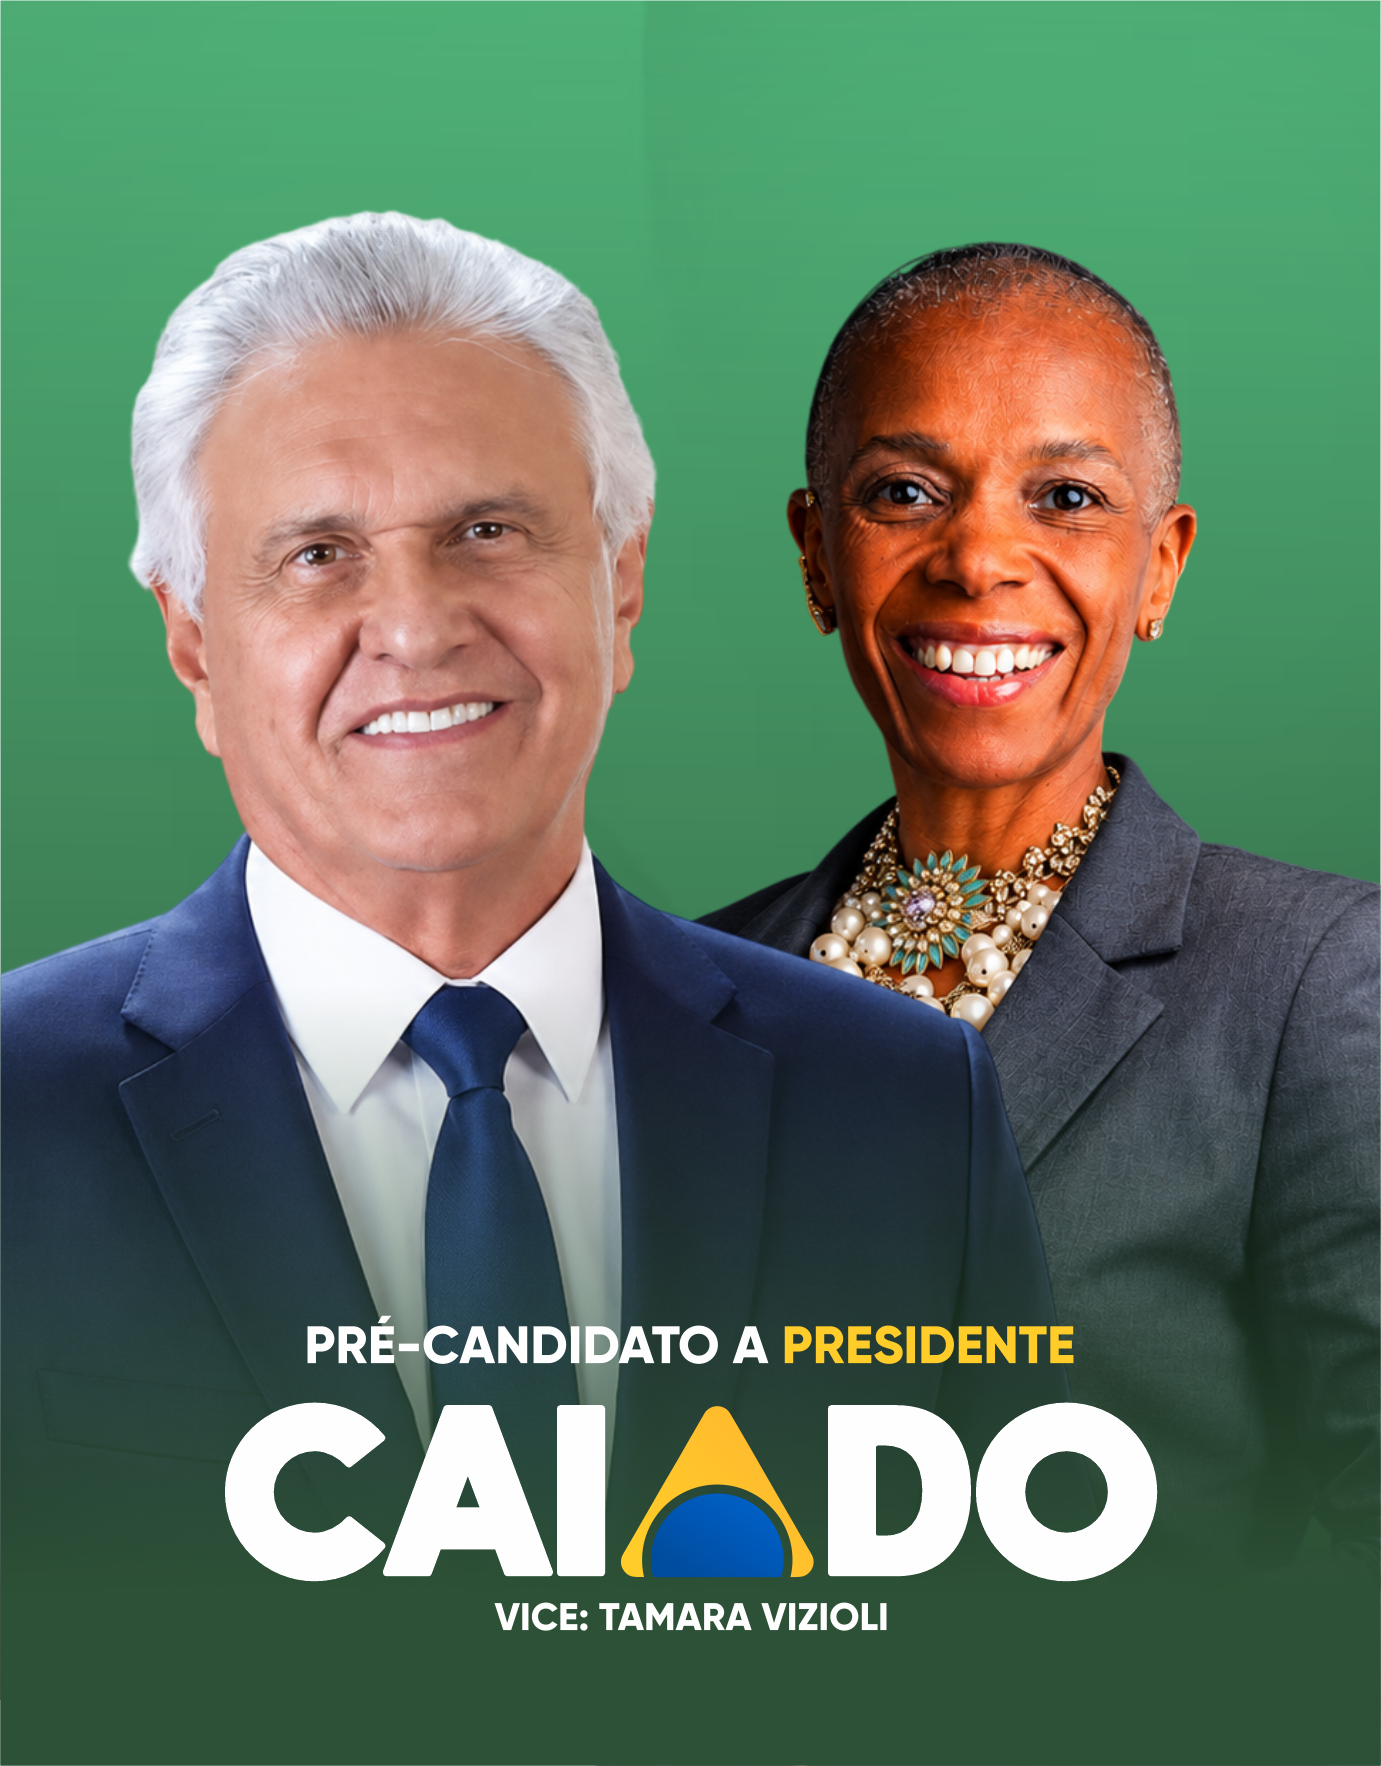
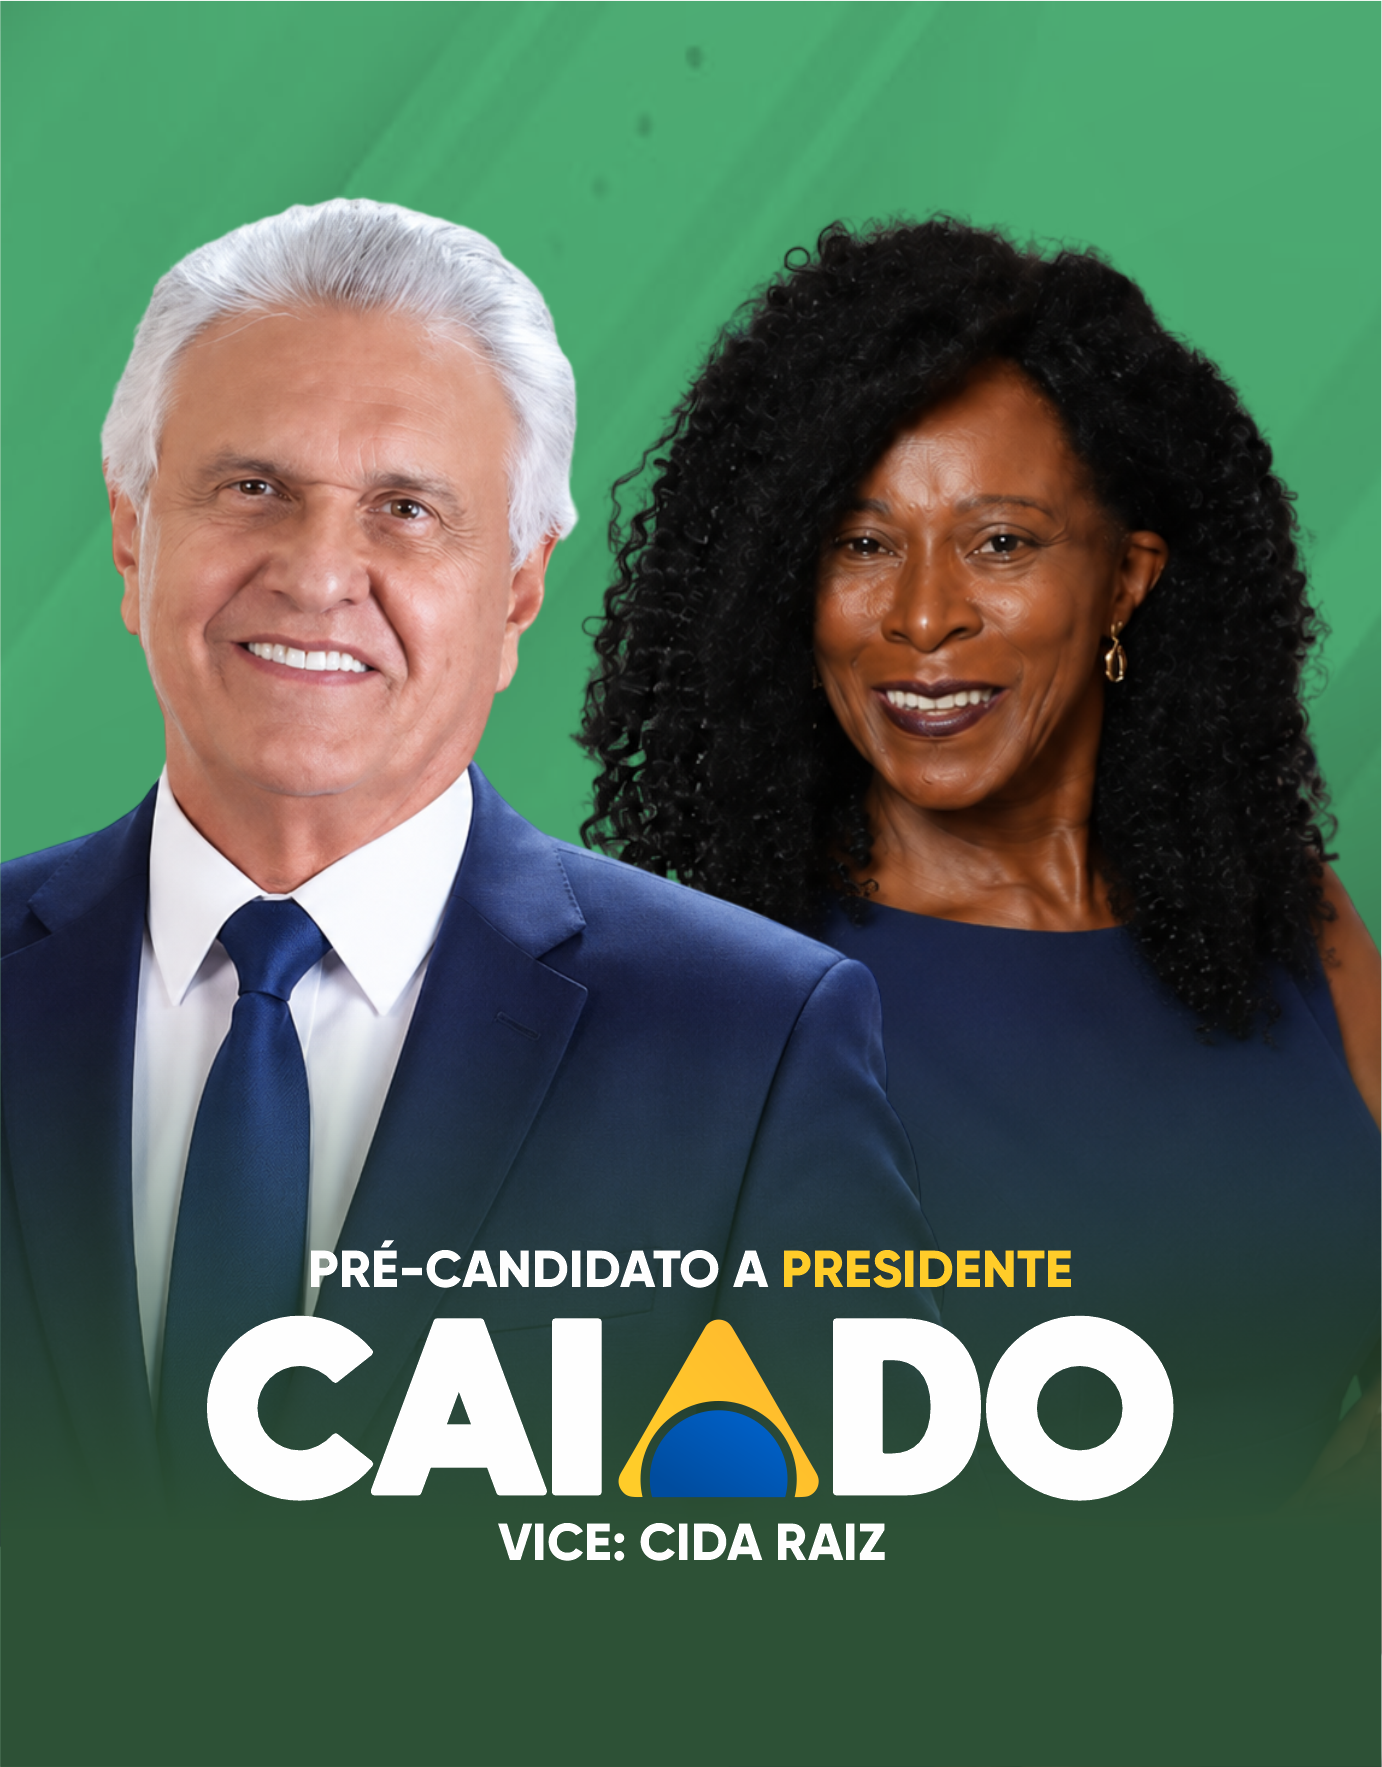
Add files via upload

diff --git a/index.html b/index.html
@@ -3,8 +3,8 @@
 <head>
   <meta charset="UTF-8">
   <meta name="viewport" content="width=device-width, initial-scale=1.0">
-  <meta name="description" content="Caiado 2026 - PSD Afro GO indica Tamara Vizioli para vice em uma chapa de gest&atilde;o, seguran&ccedil;a e transforma&ccedil;&atilde;o humana.">
-  <title>Caiado 2026 | PSD Afro GO indica Tamara Vizioli</title>
+  <meta name="description" content="Caiado 2026 - PSD Afro GO indica Cida Raiz para vice em uma chapa de gest&atilde;o, paz social e transforma&ccedil;&atilde;o humana.">
+  <title>Caiado 2026 | PSD Afro GO indica Cida Raiz</title>
   <link rel="preconnect" href="https://fonts.googleapis.com">
   <link rel="preconnect" href="https://fonts.gstatic.com" crossorigin>
   <link href="https://fonts.googleapis.com/css2?family=Inter:wght@400;500;600;700;800;900&family=Playfair+Display:wght@700;800&display=swap" rel="stylesheet">
@@ -23,7 +23,7 @@
     </button>
     <div class="nav-links">
       <a href="#movimento">Movimento</a>
-      <a href="#tamara">Tamara</a>
+      <a href="#cida">Cida Raiz</a>
       <a href="#agenda">Agenda</a>
       <a href="#planos">Planos</a>
       <a href="#terras-raras">Terras raras</a>
@@ -52,13 +52,13 @@
       <div class="section-kicker">Movimento</div>
       <div class="section-grid">
         <div>
-          <h2>PSD Afro GO indica Tamara Vizioli para vice de Ronaldo Caiado.</h2>
+          <h2>PSD Afro GO indica Cida Raiz para vice de Ronaldo Caiado.</h2>
         </div>
         <div class="rich-copy">
           <div class="manifest-video">
             <video src="01.mp4" controls playsinline preload="metadata"></video>
           </div>
-          <p>O PSD Afro GO defende uma chapa com presen&ccedil;a, escuta e capacidade de execu&ccedil;&atilde;o. A indica&ccedil;&atilde;o de Tamara Vizioli amplia o di&aacute;logo com fam&iacute;lias, mulheres, empreendedores criativos e comunidades que querem participar da constru&ccedil;&atilde;o do Brasil de 2026.</p>
+          <p>O PSD Afro GO defende uma chapa com presen&ccedil;a, escuta e capacidade de execu&ccedil;&atilde;o. A indica&ccedil;&atilde;o de Cida Raiz amplia o di&aacute;logo com mulheres, lideran&ccedil;as negras, movimentos sociais, comunidades de f&eacute;, empreendedores e cidad&atilde;os que querem participar da constru&ccedil;&atilde;o do Brasil de 2026.</p>
           <p>A proposta &eacute; somar lideran&ccedil;a pol&iacute;tica, experi&ecirc;ncia de gest&atilde;o e sensibilidade social em torno de um projeto nacional mais justo, seguro e produtivo.</p>
         </div>
       </div>
@@ -81,29 +81,39 @@
       </div>
     </section>
 
-    <section class="ticket section" id="tamara">
+    <section class="ticket section" id="cida">
       <div class="ticket-card">
         <div class="ticket-media">
-          <figure class="tamara-portrait">
-            <img src="tamara.png" alt="Tamara Vizioli">
+          <figure class="cida-portrait">
+            <img src="cida.png" alt="Maria Aparecida Pinto - Cida Raiz">
           </figure>
-          <p>Neuroci&ecirc;ncia, design e transforma&ccedil;&atilde;o humana.</p>
+          <p>Psicologia, ancestralidade, paz e lideran&ccedil;a social.</p>
         </div>
         <div class="ticket-copy">
           <div class="section-kicker">Indicada para vice</div>
-          <h2>Tamara Vizioli</h2>
-          <p>Tamara &eacute; neurocientista comportamental, CEO da Sozo Architecture, interior designer, mestre e artista em design espacial e hol&iacute;stico, com p&oacute;s em neuroarquitetura, neuroci&ecirc;ncia e performance humana.</p>
-          <p>Sua trajet&oacute;ria re&uacute;ne cria&ccedil;&atilde;o, supera&ccedil;&atilde;o e empreendedorismo. Do interesse pela arte desde a inf&acirc;ncia &agrave; experi&ecirc;ncia internacional em Dubai, Tamara construiu uma vis&atilde;o de espa&ccedil;os, pessoas e projetos como instrumentos de cura, organiza&ccedil;&atilde;o e transforma&ccedil;&atilde;o.</p>
+          <h2>Maria Aparecida Pinto</h2>
+          <p><strong>Cida Raiz</strong> &eacute; psic&oacute;loga e alquimista, com p&oacute;s-gradua&ccedil;&atilde;o em Administra&ccedil;&atilde;o e Recursos Humanos, al&eacute;m de forma&ccedil;&atilde;o em Hist&oacute;ria da &Aacute;frica e do Negro no Brasil.</p>
+          <p>Sua atua&ccedil;&atilde;o conecta sa&uacute;de emocional, lideran&ccedil;a feminina, equidade racial, liberdade religiosa, responsabilidade social e diplomacia cidad&atilde;. Cida construiu uma trajet&oacute;ria reconhecida por institui&ccedil;&otilde;es nacionais e internacionais, com presen&ccedil;a em conselhos, comit&ecirc;s e organiza&ccedil;&otilde;es voltadas &agrave; paz, &agrave; inclus&atilde;o e ao protagonismo social.</p>
           <div class="credentials">
-            <span>CEO Sozo Architecture</span>
-            <span>Neuroarquitetura</span>
-            <span>Performance humana</span>
-            <span>Design espacial</span>
+            <span>Psic&oacute;loga</span>
+            <span>Alquimista</span>
+            <span>Embaixadora para a Paz</span>
+            <span>Liberdade religiosa</span>
           </div>
-          <a class="download-informative" href="CAMAREIRAS.pdf" download>
-            Baixar informativo
-            <span>CAMAREIRAS.pdf</span>
-          </a>
+          <div class="career-list">
+            <h3>Cida Raiz em destaque</h3>
+            <ul>
+              <li>Comendadora da Oilpalpo/Nalimpo - Ordem Internacional de L&iacute;ngua Portuguesa e Na&ccedil;&otilde;es de L&iacute;ngua Portuguesa.</li>
+              <li>Embaixadora para a Paz pela UPF - Universal Peace Federation.</li>
+              <li>Coordenadora do N&uacute;cleo G&ecirc;nero e Etnia da Virada Feminina.</li>
+              <li>Conselheira do Consocial - Conselho Superior de Responsabilidade Social da Fiesp.</li>
+              <li>Conselheira da UAB - Uni&atilde;o Afro Brasil.</li>
+              <li>Coordenadora do Comit&ecirc; de Etnia da OBME - Organiza&ccedil;&atilde;o Brasileira de Mulheres Empres&aacute;rias.</li>
+              <li>Embaixadora da C&acirc;mara Internacional de Conferencistas.</li>
+              <li>Embaixadora da Liberdade Religiosa pela SP Frente Cidad&atilde;.</li>
+              <li>Comendadora da Ordem do M&eacute;rito Elo Social no grau de Ne&oacute;fitus/Laureum.</li>
+            </ul>
+          </div>
         </div>
       </div>
     </section>

diff --git a/styles.css b/styles.css
@@ -166,7 +166,7 @@ button, a { -webkit-tap-highlight-color: transparent; }
     linear-gradient(135deg, var(--green), #061b13);
   overflow: hidden;
 }
-.tamara-portrait {
+.cida-portrait {
   position: relative;
   height: clamp(360px, 34vw, 520px);
   min-height: 0;
@@ -177,7 +177,7 @@ button, a { -webkit-tap-highlight-color: transparent; }
   overflow: hidden;
   background: linear-gradient(180deg, rgba(255,255,255,.92), rgba(255,255,255,.68));
 }
-.tamara-portrait::after {
+.cida-portrait::after {
   content: "";
   position: absolute;
   inset: auto 0 0;
@@ -185,7 +185,7 @@ button, a { -webkit-tap-highlight-color: transparent; }
   background: linear-gradient(0deg, rgba(3,57,38,.74), transparent);
   pointer-events: none;
 }
-.tamara-portrait img {
+.cida-portrait img {
   width: 100%;
   height: 100%;
   max-width: 100%;
@@ -198,26 +198,25 @@ button, a { -webkit-tap-highlight-color: transparent; }
 .ticket-copy p { color: rgba(255,255,255,.78); font-size: 18px; line-height: 1.72; }
 .credentials { display: flex; flex-wrap: wrap; gap: 10px; margin-top: 30px; }
 .credentials span { border: 1px solid rgba(255,255,255,.22); border-radius: 999px; padding: 10px 14px; color: rgba(255,255,255,.86); font-size: 13px; font-weight: 800; }
-.download-informative {
-  display: inline-flex;
-  align-items: center;
-  justify-content: center;
-  gap: 12px;
-  min-height: 52px;
-  margin-top: 26px;
-  padding: 0 20px;
-  border-radius: 999px;
-  background: var(--gold);
-  color: #173314;
-  font-weight: 900;
+.career-list {
+  margin-top: 30px;
+  padding-top: 26px;
+  border-top: 1px solid rgba(255,255,255,.16);
 }
-.download-informative span {
-  color: rgba(23,51,20,.68);
-  font-size: 12px;
-  letter-spacing: .08em;
-  text-transform: uppercase;
+.career-list h3 {
+  margin: 0 0 16px;
+  color: var(--gold);
+  font-size: 18px;
 }
-
+.career-list ul {
+  display: grid;
+  gap: 10px;
+  margin: 0;
+  padding-left: 20px;
+  color: rgba(255,255,255,.78);
+  line-height: 1.55;
+}
+.career-list li::marker { color: var(--gold); }
 .agenda { background: #ffffff; }
 .compact { grid-template-columns: 1.15fr .85fr; }
 .agenda-list { margin-top: 46px; border-top: 1px solid var(--line); }
@@ -348,8 +347,7 @@ button, a { -webkit-tap-highlight-color: transparent; }
   .signal-grid article, .ticket-media, .ticket-copy { padding: 26px; }
   .ticket-card { min-height: 0; }
   .ticket-media { min-height: 0; }
-  .tamara-portrait { height: 360px; }
-  .download-informative { width: 100%; flex-wrap: wrap; }
+  .cida-portrait { height: 360px; }
   .photo-grid { grid-template-columns: 1fr; grid-auto-rows: 240px; }
   .photo-large, .photo-wide { grid-column: span 1; grid-row: span 1; }
   .news-grid img { height: 210px; }
